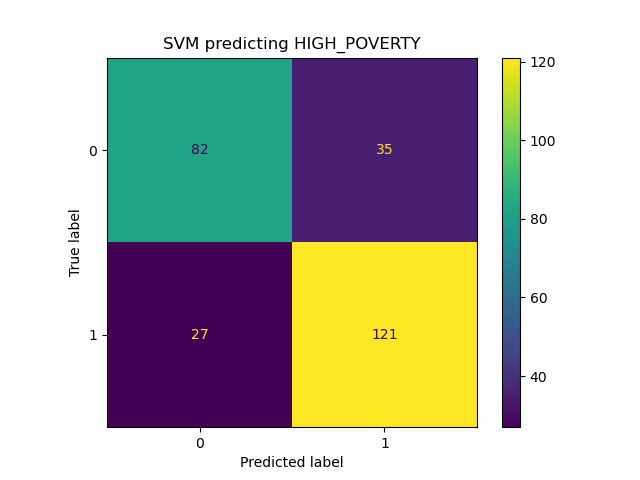
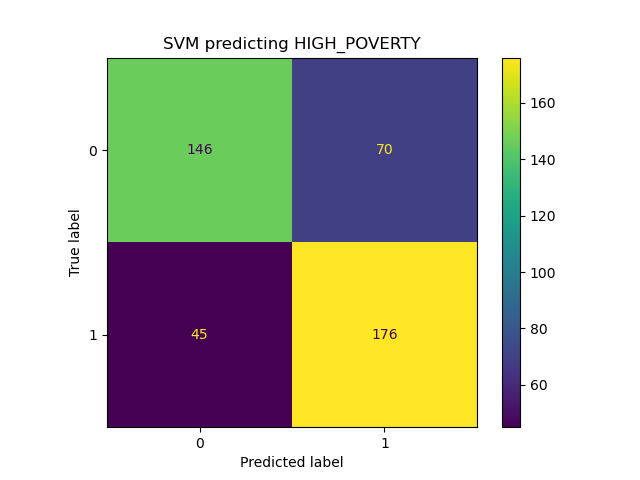
images more

diff --git a/log_reg.py b/log_reg.py
@@ -9,6 +9,10 @@ from sklearn.model_selection import train_test_split
 
 from sklearn.metrics import confusion_matrix, ConfusionMatrixDisplay
 
+import svm
+
+from sklearn import svm
+
 # def train_step(model):
 #     #col_names = ['pregnant', 'glucose', 'bp', 'skin', 'insulin', 'bmi', 'pedigree', 'age', 'label']
 #     # load dataset
@@ -22,14 +26,14 @@ def run_model(clf, clf_name, X_train, X_test, y_train, y_test, label_name):
 
     y_pred = clf.predict(X_test)
 
-    prob_pos = clf.predict_proba(X_test)
+    # prob_pos = clf.predict_proba(X_test)
 
     accuracyLog = accuracy_score(y_test, y_pred)
     print(f'{clf_name} accuracy {label_name}:', accuracyLog*100, "%")
 
     create_cm(y_test, y_pred, clf, clf_name , label_name)
 
-    return prob_pos
+    return 0
 
 def create_cm(y_test, y_pred, clf, clf_name, label_name):
     cnf_matrix = metrics.confusion_matrix(y_test, y_pred)
@@ -55,19 +59,24 @@ def main():
     # test two layer function
     # opts = util.parse_args()
     label_col = ["SUPERMARKET_ACCESS", "HIGH_POVERTY"] #opts.label_col
-    prob_pos = [] 
+    # prob_pos = [] 
     df = util.process_txt("NeighborhoodFoodRetail.csv")
 
     for i in label_col:
         # logreg = LogisticRegression(random_state=16, max_iter=500)
         X, y = util.split_data(df, i)
         X_train, X_test, y_train, y_test = train_test_split(X, y, test_size=0.33, shuffle=False)
-        print(X_train)
-        print(y_train)
+        # print(X_train)
+        # print(y_train)
+        print(f'Logistic Regression Results for Label {i}')
         clf = LogisticRegression(random_state=16, max_iter=500)
-        prob_pos.append(run_model( clf, "log_reg", X_train, X_test, y_train, y_test, i))
+        run_model( clf, "log_reg", X_train, X_test, y_train, y_test, i)
+        print(f'SVM Results for Label {i}')
+        clf = svm.SVC()
+        run_model( clf, "SVM", X_train, X_test, y_train, y_test, i)
 
-    visual(prob_pos[0], prob_pos[1], label_col)
+
+    # visual(prob_pos[0], prob_pos[1], label_col)
 
     
 if __name__ == "__main__":

diff --git a/svm.py b/svm.py
@@ -18,6 +18,7 @@ import log_reg
 def main():
     df = util.process_txt("NeighborhoodFoodRetail.csv")
     # X, y = util.split_data(df, i)
+    best_params_all = []
 
     label_col = ["SUPERMARKET_ACCESS", "HIGH_POVERTY"] 
 
@@ -44,15 +45,17 @@ def main():
         svc_df = pd.DataFrame({'parameters_used': best_params, 'test results': test_results})
         # print("best_results")
         best_index = test_results.index(max(test_results))
-        best_result = y_pred[best_index]
+        best_params = best_params[best_index]
+        best_params_all.append(best_params)
+        # best_result = y_pred[best_index]
         # print(best_result)
         print(svc_df)
         # print(svc_clf.classes_)
         # print(i)
 
-        log_reg.create_cm(y_test[best_index], best_result, svc_clf, "SVM", curr_label)
+        # log_reg.create_cm(y_test[best_index], best_result, svc_clf, "SVM", curr_label)
 
-    return 0
+    return best_params_all
 
 
 
